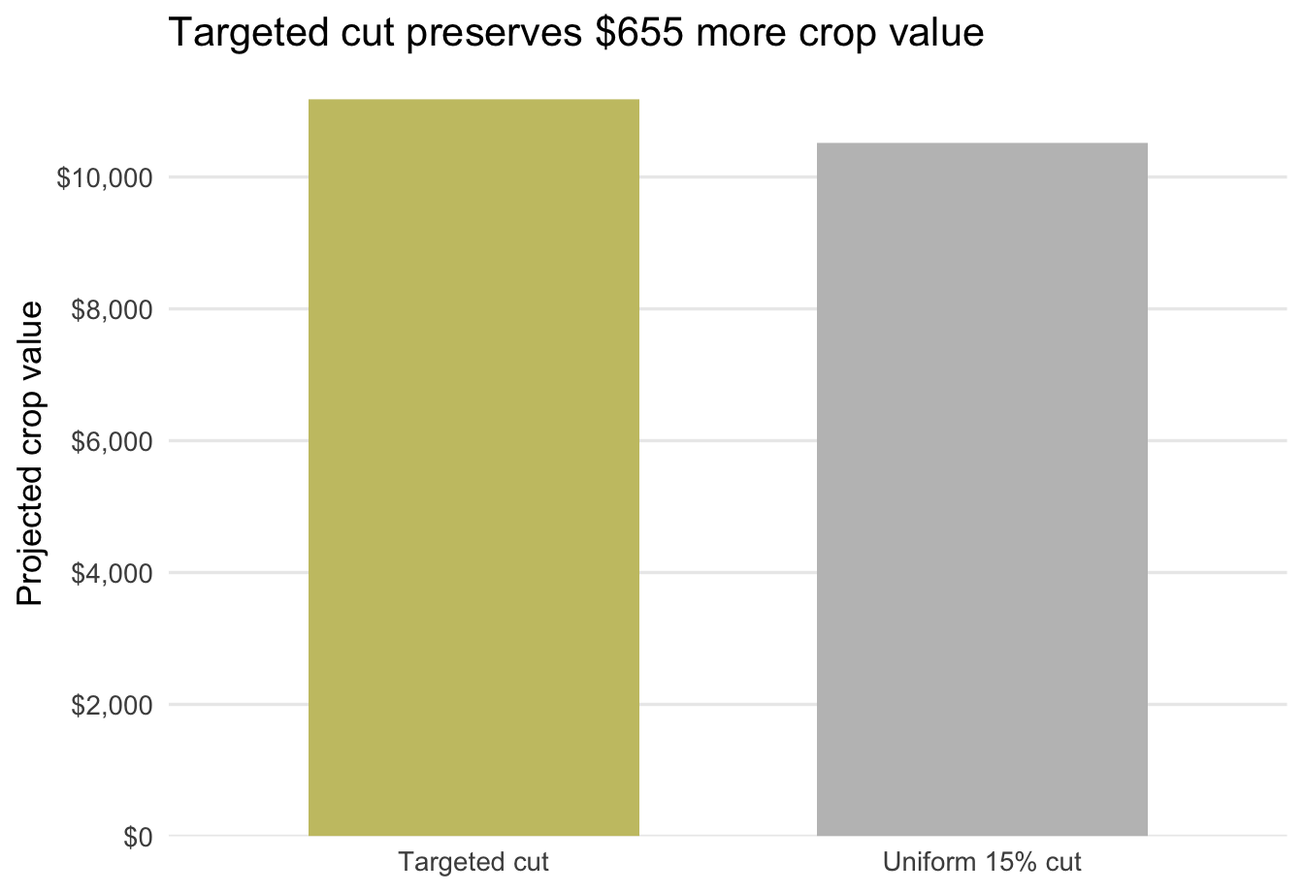
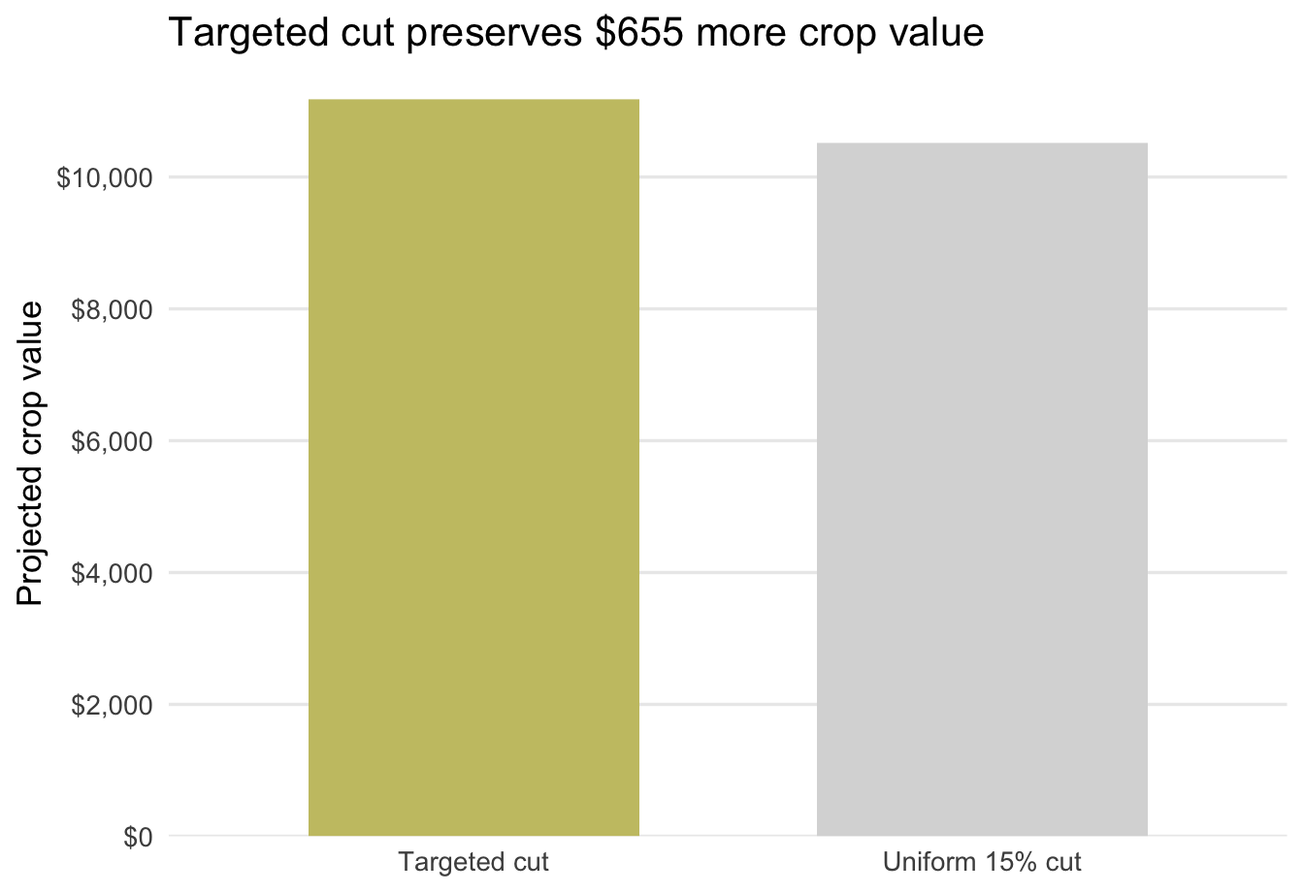
Refactor visualizations in lab.qmd: updated dollar label functions, adjusted color themes, and modified layout to horizontal for improved readability. Updated associated PNG files for visual consistency.

Changed region(s): [[0.625, 0.152, 0.9062, 0.9425]]

diff --git a/modules/14_refining/lab.html b/modules/14_refining/lab.html
@@ -101,7 +101,7 @@ pre > code.sourceCode > span > a:first-child::before { text-decoration: underlin
   <li><a href="#step-5-compare-before-and-after" id="toc-step-5-compare-before-and-after" class="nav-link" data-scroll-target="#step-5-compare-before-and-after">Step 5: Compare before and after</a></li>
   </ul></li>
   <li><a href="#deliverables" id="toc-deliverables" class="nav-link" data-scroll-target="#deliverables">Deliverables</a></li>
-  <li><a href="#appendix-analysis-based-visuals" id="toc-appendix-analysis-based-visuals" class="nav-link" data-scroll-target="#appendix-analysis-based-visuals">Appendix: Analysis-Based Visuals</a>
+  <li><a href="#appendix-additional-visuals" id="toc-appendix-additional-visuals" class="nav-link" data-scroll-target="#appendix-additional-visuals">Appendix: Additional Visuals</a>
   <ul class="collapse">
   <li><a href="#appendix-a-plot-regression-coefficients" id="toc-appendix-a-plot-regression-coefficients" class="nav-link" data-scroll-target="#appendix-a-plot-regression-coefficients">Appendix A: Plot Regression Coefficients</a></li>
   <li><a href="#appendix-b-plot-a-forecast" id="toc-appendix-b-plot-a-forecast" class="nav-link" data-scroll-target="#appendix-b-plot-a-forecast">Appendix B: Plot a Forecast</a></li>
@@ -174,70 +174,61 @@ pre > code.sourceCode > span > a:first-child::before { text-decoration: underlin
 <p>Use the code below to recreate that comparison.</p>
 <div class="cell">
 <div class="sourceCode cell-code" id="cb2"><pre class="sourceCode r code-with-copy"><code class="sourceCode r"><span id="cb2-1"><a href="#cb2-1" aria-hidden="true" tabindex="-1"></a><span class="fu">library</span>(tidyverse)</span>
-<span id="cb2-2"><a href="#cb2-2" aria-hidden="true" tabindex="-1"></a></span>
-<span id="cb2-3"><a href="#cb2-3" aria-hidden="true" tabindex="-1"></a>accent <span class="ot">&lt;-</span> <span class="st">"#C8C372"</span></span>
-<span id="cb2-4"><a href="#cb2-4" aria-hidden="true" tabindex="-1"></a>muted <span class="ot">&lt;-</span> <span class="st">"gray75"</span></span>
-<span id="cb2-5"><a href="#cb2-5" aria-hidden="true" tabindex="-1"></a></span>
-<span id="cb2-6"><a href="#cb2-6" aria-hidden="true" tabindex="-1"></a>refine_theme <span class="ot">&lt;-</span> <span class="fu">theme_minimal</span>(<span class="at">base_size =</span> <span class="dv">13</span>) <span class="sc">+</span></span>
-<span id="cb2-7"><a href="#cb2-7" aria-hidden="true" tabindex="-1"></a>  <span class="fu">theme</span>(</span>
-<span id="cb2-8"><a href="#cb2-8" aria-hidden="true" tabindex="-1"></a>    <span class="at">panel.grid.minor =</span> <span class="fu">element_blank</span>(),</span>
-<span id="cb2-9"><a href="#cb2-9" aria-hidden="true" tabindex="-1"></a>    <span class="at">plot.title.position =</span> <span class="st">"plot"</span>,</span>
-<span id="cb2-10"><a href="#cb2-10" aria-hidden="true" tabindex="-1"></a>    <span class="at">plot.background =</span> <span class="fu">element_rect</span>(<span class="at">fill =</span> <span class="st">"white"</span>, <span class="at">color =</span> <span class="cn">NA</span>),</span>
-<span id="cb2-11"><a href="#cb2-11" aria-hidden="true" tabindex="-1"></a>    <span class="at">panel.background =</span> <span class="fu">element_rect</span>(<span class="at">fill =</span> <span class="st">"white"</span>, <span class="at">color =</span> <span class="cn">NA</span>)</span>
-<span id="cb2-12"><a href="#cb2-12" aria-hidden="true" tabindex="-1"></a>  )</span>
-<span id="cb2-13"><a href="#cb2-13" aria-hidden="true" tabindex="-1"></a></span>
-<span id="cb2-14"><a href="#cb2-14" aria-hidden="true" tabindex="-1"></a><span class="co"># Reuse the same farm-level dataset from week 12</span></span>
-<span id="cb2-15"><a href="#cb2-15" aria-hidden="true" tabindex="-1"></a>allocation_dat <span class="ot">&lt;-</span> <span class="fu">read_csv</span>(<span class="st">"https://jbayham.github.io/arec-330/modules/12_choosing/includes/lab12_dat.csv"</span>, <span class="at">show_col_types =</span> <span class="cn">FALSE</span>)</span>
-<span id="cb2-16"><a href="#cb2-16" aria-hidden="true" tabindex="-1"></a></span>
-<span id="cb2-17"><a href="#cb2-17" aria-hidden="true" tabindex="-1"></a><span class="co"># Recreate the simple value measure from the week 12 scenario</span></span>
-<span id="cb2-18"><a href="#cb2-18" aria-hidden="true" tabindex="-1"></a>value_dat <span class="ot">&lt;-</span> allocation_dat <span class="sc">%&gt;%</span></span>
-<span id="cb2-19"><a href="#cb2-19" aria-hidden="true" tabindex="-1"></a>  <span class="fu">mutate</span>(</span>
-<span id="cb2-20"><a href="#cb2-20" aria-hidden="true" tabindex="-1"></a>    <span class="at">price_per_bu =</span> <span class="fu">case_when</span>(</span>
-<span id="cb2-21"><a href="#cb2-21" aria-hidden="true" tabindex="-1"></a>      crop <span class="sc">==</span> <span class="st">"corn"</span> <span class="sc">~</span> <span class="dv">5</span>,</span>
-<span id="cb2-22"><a href="#cb2-22" aria-hidden="true" tabindex="-1"></a>      crop <span class="sc">==</span> <span class="st">"soybeans"</span> <span class="sc">~</span> <span class="dv">6</span>,</span>
-<span id="cb2-23"><a href="#cb2-23" aria-hidden="true" tabindex="-1"></a>      crop <span class="sc">==</span> <span class="st">"alfalfa"</span> <span class="sc">~</span> <span class="dv">7</span></span>
-<span id="cb2-24"><a href="#cb2-24" aria-hidden="true" tabindex="-1"></a>    ),</span>
-<span id="cb2-25"><a href="#cb2-25" aria-hidden="true" tabindex="-1"></a>    <span class="at">value_per_acre =</span> yield_bu_acre <span class="sc">*</span> price_per_bu,</span>
-<span id="cb2-26"><a href="#cb2-26" aria-hidden="true" tabindex="-1"></a>    <span class="at">value_per_acft =</span> value_per_acre <span class="sc">/</span> seasonal_water_acft</span>
-<span id="cb2-27"><a href="#cb2-27" aria-hidden="true" tabindex="-1"></a>  )</span>
-<span id="cb2-28"><a href="#cb2-28" aria-hidden="true" tabindex="-1"></a></span>
-<span id="cb2-29"><a href="#cb2-29" aria-hidden="true" tabindex="-1"></a><span class="co"># The board must operate with 15% less total water</span></span>
-<span id="cb2-30"><a href="#cb2-30" aria-hidden="true" tabindex="-1"></a>water_budget <span class="ot">&lt;-</span> <span class="fu">sum</span>(value_dat<span class="sc">$</span>seasonal_water_acft) <span class="sc">*</span> <span class="fl">0.85</span></span>
-<span id="cb2-31"><a href="#cb2-31" aria-hidden="true" tabindex="-1"></a></span>
-<span id="cb2-32"><a href="#cb2-32" aria-hidden="true" tabindex="-1"></a><span class="co"># Targeted cut: preserve water first where value per acre-foot is higher</span></span>
-<span id="cb2-33"><a href="#cb2-33" aria-hidden="true" tabindex="-1"></a>targeted_plan <span class="ot">&lt;-</span> value_dat <span class="sc">%&gt;%</span></span>
-<span id="cb2-34"><a href="#cb2-34" aria-hidden="true" tabindex="-1"></a>  <span class="fu">arrange</span>(<span class="fu">desc</span>(value_per_acft)) <span class="sc">%&gt;%</span></span>
-<span id="cb2-35"><a href="#cb2-35" aria-hidden="true" tabindex="-1"></a>  <span class="fu">mutate</span>(</span>
-<span id="cb2-36"><a href="#cb2-36" aria-hidden="true" tabindex="-1"></a>    <span class="at">water_before =</span> <span class="fu">lag</span>(<span class="fu">cumsum</span>(seasonal_water_acft), <span class="at">default =</span> <span class="dv">0</span>),</span>
-<span id="cb2-37"><a href="#cb2-37" aria-hidden="true" tabindex="-1"></a>    <span class="at">water_kept =</span> <span class="fu">pmax</span>(<span class="dv">0</span>, <span class="fu">pmin</span>(seasonal_water_acft, water_budget <span class="sc">-</span> water_before)),</span>
-<span id="cb2-38"><a href="#cb2-38" aria-hidden="true" tabindex="-1"></a>    <span class="at">share_kept =</span> water_kept <span class="sc">/</span> seasonal_water_acft,</span>
-<span id="cb2-39"><a href="#cb2-39" aria-hidden="true" tabindex="-1"></a>    <span class="at">projected_value =</span> value_per_acre <span class="sc">*</span> share_kept</span>
-<span id="cb2-40"><a href="#cb2-40" aria-hidden="true" tabindex="-1"></a>  )</span>
-<span id="cb2-41"><a href="#cb2-41" aria-hidden="true" tabindex="-1"></a></span>
-<span id="cb2-42"><a href="#cb2-42" aria-hidden="true" tabindex="-1"></a><span class="co"># Compare the two policies</span></span>
-<span id="cb2-43"><a href="#cb2-43" aria-hidden="true" tabindex="-1"></a>policy_compare <span class="ot">&lt;-</span> <span class="fu">tibble</span>(</span>
-<span id="cb2-44"><a href="#cb2-44" aria-hidden="true" tabindex="-1"></a>  <span class="at">policy =</span> <span class="fu">c</span>(<span class="st">"Uniform 15% cut"</span>, <span class="st">"Targeted cut"</span>),</span>
-<span id="cb2-45"><a href="#cb2-45" aria-hidden="true" tabindex="-1"></a>  <span class="at">total_value =</span> <span class="fu">c</span>(</span>
-<span id="cb2-46"><a href="#cb2-46" aria-hidden="true" tabindex="-1"></a>    <span class="fu">sum</span>(value_dat<span class="sc">$</span>value_per_acre <span class="sc">*</span> <span class="fl">0.85</span>),</span>
-<span id="cb2-47"><a href="#cb2-47" aria-hidden="true" tabindex="-1"></a>    <span class="fu">sum</span>(targeted_plan<span class="sc">$</span>projected_value)</span>
-<span id="cb2-48"><a href="#cb2-48" aria-hidden="true" tabindex="-1"></a>  )</span>
-<span id="cb2-49"><a href="#cb2-49" aria-hidden="true" tabindex="-1"></a>) <span class="sc">%&gt;%</span></span>
-<span id="cb2-50"><a href="#cb2-50" aria-hidden="true" tabindex="-1"></a>  <span class="fu">mutate</span>(</span>
-<span id="cb2-51"><a href="#cb2-51" aria-hidden="true" tabindex="-1"></a>    <span class="at">policy_long =</span> <span class="fu">c</span>(</span>
-<span id="cb2-52"><a href="#cb2-52" aria-hidden="true" tabindex="-1"></a>      <span class="st">"Uniform 15% cut to all farms"</span>,</span>
-<span id="cb2-53"><a href="#cb2-53" aria-hidden="true" tabindex="-1"></a>      <span class="st">"Targeted cut based on value per acre-foot"</span></span>
-<span id="cb2-54"><a href="#cb2-54" aria-hidden="true" tabindex="-1"></a>    ),</span>
-<span id="cb2-55"><a href="#cb2-55" aria-hidden="true" tabindex="-1"></a>    <span class="at">policy_short =</span> <span class="fu">factor</span>(</span>
-<span id="cb2-56"><a href="#cb2-56" aria-hidden="true" tabindex="-1"></a>      <span class="fu">c</span>(<span class="st">"Uniform cut"</span>, <span class="st">"Targeted cut"</span>),</span>
-<span id="cb2-57"><a href="#cb2-57" aria-hidden="true" tabindex="-1"></a>      <span class="at">levels =</span> <span class="fu">c</span>(<span class="st">"Uniform cut"</span>, <span class="st">"Targeted cut"</span>)</span>
-<span id="cb2-58"><a href="#cb2-58" aria-hidden="true" tabindex="-1"></a>    ),</span>
-<span id="cb2-59"><a href="#cb2-59" aria-hidden="true" tabindex="-1"></a>    <span class="at">emphasis =</span> <span class="fu">c</span>(<span class="st">"Background"</span>, <span class="st">"Highlight"</span>),</span>
-<span id="cb2-60"><a href="#cb2-60" aria-hidden="true" tabindex="-1"></a>    <span class="at">label =</span> scales<span class="sc">::</span><span class="fu">dollar</span>(total_value, <span class="at">accuracy =</span> <span class="dv">1</span>)</span>
-<span id="cb2-61"><a href="#cb2-61" aria-hidden="true" tabindex="-1"></a>  )</span>
-<span id="cb2-62"><a href="#cb2-62" aria-hidden="true" tabindex="-1"></a></span>
-<span id="cb2-63"><a href="#cb2-63" aria-hidden="true" tabindex="-1"></a>value_gap <span class="ot">&lt;-</span> policy_compare<span class="sc">$</span>total_value[<span class="dv">2</span>] <span class="sc">-</span> policy_compare<span class="sc">$</span>total_value[<span class="dv">1</span>]</span>
-<span id="cb2-64"><a href="#cb2-64" aria-hidden="true" tabindex="-1"></a></span>
-<span id="cb2-65"><a href="#cb2-65" aria-hidden="true" tabindex="-1"></a>policy_compare</span></code><button title="Copy to Clipboard" class="code-copy-button"><i class="bi"></i></button></pre></div>
+<span id="cb2-2"><a href="#cb2-2" aria-hidden="true" tabindex="-1"></a><span class="fu">library</span>(scales)</span>
+<span id="cb2-3"><a href="#cb2-3" aria-hidden="true" tabindex="-1"></a></span>
+<span id="cb2-4"><a href="#cb2-4" aria-hidden="true" tabindex="-1"></a></span>
+<span id="cb2-5"><a href="#cb2-5" aria-hidden="true" tabindex="-1"></a><span class="co"># Reuse the same farm-level dataset from week 12</span></span>
+<span id="cb2-6"><a href="#cb2-6" aria-hidden="true" tabindex="-1"></a>allocation_dat <span class="ot">&lt;-</span> <span class="fu">read_csv</span>(<span class="st">"https://jbayham.github.io/arec-330/modules/12_choosing/includes/lab12_dat.csv"</span>, <span class="at">show_col_types =</span> <span class="cn">FALSE</span>)</span>
+<span id="cb2-7"><a href="#cb2-7" aria-hidden="true" tabindex="-1"></a></span>
+<span id="cb2-8"><a href="#cb2-8" aria-hidden="true" tabindex="-1"></a><span class="co"># Recreate the simple value measure from the week 12 scenario</span></span>
+<span id="cb2-9"><a href="#cb2-9" aria-hidden="true" tabindex="-1"></a>value_dat <span class="ot">&lt;-</span> allocation_dat <span class="sc">%&gt;%</span></span>
+<span id="cb2-10"><a href="#cb2-10" aria-hidden="true" tabindex="-1"></a>  <span class="fu">mutate</span>(</span>
+<span id="cb2-11"><a href="#cb2-11" aria-hidden="true" tabindex="-1"></a>    <span class="at">price_per_bu =</span> <span class="fu">case_when</span>(</span>
+<span id="cb2-12"><a href="#cb2-12" aria-hidden="true" tabindex="-1"></a>      crop <span class="sc">==</span> <span class="st">"corn"</span> <span class="sc">~</span> <span class="dv">5</span>,</span>
+<span id="cb2-13"><a href="#cb2-13" aria-hidden="true" tabindex="-1"></a>      crop <span class="sc">==</span> <span class="st">"soybeans"</span> <span class="sc">~</span> <span class="dv">6</span>,</span>
+<span id="cb2-14"><a href="#cb2-14" aria-hidden="true" tabindex="-1"></a>      crop <span class="sc">==</span> <span class="st">"alfalfa"</span> <span class="sc">~</span> <span class="dv">7</span></span>
+<span id="cb2-15"><a href="#cb2-15" aria-hidden="true" tabindex="-1"></a>    ),</span>
+<span id="cb2-16"><a href="#cb2-16" aria-hidden="true" tabindex="-1"></a>    <span class="at">value_per_acre =</span> yield_bu_acre <span class="sc">*</span> price_per_bu,</span>
+<span id="cb2-17"><a href="#cb2-17" aria-hidden="true" tabindex="-1"></a>    <span class="at">value_per_acft =</span> value_per_acre <span class="sc">/</span> seasonal_water_acft</span>
+<span id="cb2-18"><a href="#cb2-18" aria-hidden="true" tabindex="-1"></a>  )</span>
+<span id="cb2-19"><a href="#cb2-19" aria-hidden="true" tabindex="-1"></a></span>
+<span id="cb2-20"><a href="#cb2-20" aria-hidden="true" tabindex="-1"></a><span class="co"># The board must operate with 15% less total water</span></span>
+<span id="cb2-21"><a href="#cb2-21" aria-hidden="true" tabindex="-1"></a>water_budget <span class="ot">&lt;-</span> <span class="fu">sum</span>(value_dat<span class="sc">$</span>seasonal_water_acft) <span class="sc">*</span> <span class="fl">0.85</span></span>
+<span id="cb2-22"><a href="#cb2-22" aria-hidden="true" tabindex="-1"></a></span>
+<span id="cb2-23"><a href="#cb2-23" aria-hidden="true" tabindex="-1"></a><span class="co"># Targeted cut: preserve water first where value per acre-foot is higher</span></span>
+<span id="cb2-24"><a href="#cb2-24" aria-hidden="true" tabindex="-1"></a>targeted_plan <span class="ot">&lt;-</span> value_dat <span class="sc">%&gt;%</span></span>
+<span id="cb2-25"><a href="#cb2-25" aria-hidden="true" tabindex="-1"></a>  <span class="fu">arrange</span>(<span class="fu">desc</span>(value_per_acft)) <span class="sc">%&gt;%</span></span>
+<span id="cb2-26"><a href="#cb2-26" aria-hidden="true" tabindex="-1"></a>  <span class="fu">mutate</span>(</span>
+<span id="cb2-27"><a href="#cb2-27" aria-hidden="true" tabindex="-1"></a>    <span class="at">water_before =</span> <span class="fu">lag</span>(<span class="fu">cumsum</span>(seasonal_water_acft), <span class="at">default =</span> <span class="dv">0</span>),</span>
+<span id="cb2-28"><a href="#cb2-28" aria-hidden="true" tabindex="-1"></a>    <span class="at">water_kept =</span> <span class="fu">pmax</span>(<span class="dv">0</span>, <span class="fu">pmin</span>(seasonal_water_acft, water_budget <span class="sc">-</span> water_before)),</span>
+<span id="cb2-29"><a href="#cb2-29" aria-hidden="true" tabindex="-1"></a>    <span class="at">share_kept =</span> water_kept <span class="sc">/</span> seasonal_water_acft,</span>
+<span id="cb2-30"><a href="#cb2-30" aria-hidden="true" tabindex="-1"></a>    <span class="at">projected_value =</span> value_per_acre <span class="sc">*</span> share_kept</span>
+<span id="cb2-31"><a href="#cb2-31" aria-hidden="true" tabindex="-1"></a>  )</span>
+<span id="cb2-32"><a href="#cb2-32" aria-hidden="true" tabindex="-1"></a></span>
+<span id="cb2-33"><a href="#cb2-33" aria-hidden="true" tabindex="-1"></a><span class="co"># Compare the two policies</span></span>
+<span id="cb2-34"><a href="#cb2-34" aria-hidden="true" tabindex="-1"></a>policy_compare <span class="ot">&lt;-</span> <span class="fu">tibble</span>(</span>
+<span id="cb2-35"><a href="#cb2-35" aria-hidden="true" tabindex="-1"></a>  <span class="at">policy =</span> <span class="fu">c</span>(<span class="st">"Uniform 15% cut"</span>, <span class="st">"Targeted cut"</span>),</span>
+<span id="cb2-36"><a href="#cb2-36" aria-hidden="true" tabindex="-1"></a>  <span class="at">total_value =</span> <span class="fu">c</span>(</span>
+<span id="cb2-37"><a href="#cb2-37" aria-hidden="true" tabindex="-1"></a>    <span class="fu">sum</span>(value_dat<span class="sc">$</span>value_per_acre <span class="sc">*</span> <span class="fl">0.85</span>),</span>
+<span id="cb2-38"><a href="#cb2-38" aria-hidden="true" tabindex="-1"></a>    <span class="fu">sum</span>(targeted_plan<span class="sc">$</span>projected_value)</span>
+<span id="cb2-39"><a href="#cb2-39" aria-hidden="true" tabindex="-1"></a>  )</span>
+<span id="cb2-40"><a href="#cb2-40" aria-hidden="true" tabindex="-1"></a>) <span class="sc">%&gt;%</span></span>
+<span id="cb2-41"><a href="#cb2-41" aria-hidden="true" tabindex="-1"></a>  <span class="fu">mutate</span>(</span>
+<span id="cb2-42"><a href="#cb2-42" aria-hidden="true" tabindex="-1"></a>    <span class="at">policy_long =</span> <span class="fu">c</span>(</span>
+<span id="cb2-43"><a href="#cb2-43" aria-hidden="true" tabindex="-1"></a>      <span class="st">"Uniform 15% cut to all farms"</span>,</span>
+<span id="cb2-44"><a href="#cb2-44" aria-hidden="true" tabindex="-1"></a>      <span class="st">"Targeted cut based on value per acre-foot"</span></span>
+<span id="cb2-45"><a href="#cb2-45" aria-hidden="true" tabindex="-1"></a>    ),</span>
+<span id="cb2-46"><a href="#cb2-46" aria-hidden="true" tabindex="-1"></a>    <span class="at">policy_short =</span> <span class="fu">factor</span>(</span>
+<span id="cb2-47"><a href="#cb2-47" aria-hidden="true" tabindex="-1"></a>      <span class="fu">c</span>(<span class="st">"Uniform cut"</span>, <span class="st">"Targeted cut"</span>),</span>
+<span id="cb2-48"><a href="#cb2-48" aria-hidden="true" tabindex="-1"></a>      <span class="at">levels =</span> <span class="fu">c</span>(<span class="st">"Uniform cut"</span>, <span class="st">"Targeted cut"</span>)</span>
+<span id="cb2-49"><a href="#cb2-49" aria-hidden="true" tabindex="-1"></a>    ),</span>
+<span id="cb2-50"><a href="#cb2-50" aria-hidden="true" tabindex="-1"></a>    <span class="at">emphasis =</span> <span class="fu">c</span>(<span class="st">"Background"</span>, <span class="st">"Highlight"</span>),</span>
+<span id="cb2-51"><a href="#cb2-51" aria-hidden="true" tabindex="-1"></a>    <span class="at">label =</span> <span class="fu">dollar</span>(total_value, <span class="at">accuracy =</span> <span class="dv">1</span>)</span>
+<span id="cb2-52"><a href="#cb2-52" aria-hidden="true" tabindex="-1"></a>  )</span>
+<span id="cb2-53"><a href="#cb2-53" aria-hidden="true" tabindex="-1"></a></span>
+<span id="cb2-54"><a href="#cb2-54" aria-hidden="true" tabindex="-1"></a>value_gap <span class="ot">&lt;-</span> policy_compare<span class="sc">$</span>total_value[<span class="dv">2</span>] <span class="sc">-</span> policy_compare<span class="sc">$</span>total_value[<span class="dv">1</span>]</span>
+<span id="cb2-55"><a href="#cb2-55" aria-hidden="true" tabindex="-1"></a></span>
+<span id="cb2-56"><a href="#cb2-56" aria-hidden="true" tabindex="-1"></a>policy_compare</span></code><button title="Copy to Clipboard" class="code-copy-button"><i class="bi"></i></button></pre></div>
 <div class="cell-output cell-output-stdout">
 <pre><code># A tibble: 2 × 6
   policy          total_value policy_long            policy_short emphasis label
@@ -320,7 +311,7 @@ Note
 <span id="cb7-2"><a href="#cb7-2" aria-hidden="true" tabindex="-1"></a>  <span class="fu">geom_col</span>() <span class="sc">+</span></span>
 <span id="cb7-3"><a href="#cb7-3" aria-hidden="true" tabindex="-1"></a>  <span class="fu">scale_y_continuous</span>(</span>
 <span id="cb7-4"><a href="#cb7-4" aria-hidden="true" tabindex="-1"></a>    <span class="at">breaks =</span> <span class="fu">seq</span>(<span class="dv">0</span>, <span class="dv">12000</span>, <span class="dv">2000</span>),</span>
-<span id="cb7-5"><a href="#cb7-5" aria-hidden="true" tabindex="-1"></a>    <span class="at">labels =</span> scales<span class="sc">::</span><span class="fu">label_dollar</span>(),</span>
+<span id="cb7-5"><a href="#cb7-5" aria-hidden="true" tabindex="-1"></a>    <span class="at">labels =</span> <span class="fu">label_dollar</span>(),</span>
 <span id="cb7-6"><a href="#cb7-6" aria-hidden="true" tabindex="-1"></a>    <span class="at">expand =</span> <span class="fu">expansion</span>(<span class="at">mult =</span> <span class="fu">c</span>(<span class="dv">0</span>, <span class="fl">0.04</span>))</span>
 <span id="cb7-7"><a href="#cb7-7" aria-hidden="true" tabindex="-1"></a>  ) <span class="sc">+</span></span>
 <span id="cb7-8"><a href="#cb7-8" aria-hidden="true" tabindex="-1"></a>  <span class="fu">labs</span>(</span>
@@ -347,7 +338,7 @@ Note
 <span id="cb8-2"><a href="#cb8-2" aria-hidden="true" tabindex="-1"></a>  <span class="fu">geom_col</span>(<span class="at">width =</span> <span class="fl">0.65</span>, <span class="at">show.legend =</span> <span class="cn">FALSE</span>) <span class="sc">+</span></span>
 <span id="cb8-3"><a href="#cb8-3" aria-hidden="true" tabindex="-1"></a>  <span class="fu">scale_y_continuous</span>(</span>
 <span id="cb8-4"><a href="#cb8-4" aria-hidden="true" tabindex="-1"></a>    <span class="at">breaks =</span> <span class="fu">seq</span>(<span class="dv">0</span>, <span class="dv">12000</span>, <span class="dv">2000</span>),</span>
-<span id="cb8-5"><a href="#cb8-5" aria-hidden="true" tabindex="-1"></a>    <span class="at">labels =</span> scales<span class="sc">::</span><span class="fu">label_dollar</span>(),</span>
+<span id="cb8-5"><a href="#cb8-5" aria-hidden="true" tabindex="-1"></a>    <span class="at">labels =</span> <span class="fu">label_dollar</span>(),</span>
 <span id="cb8-6"><a href="#cb8-6" aria-hidden="true" tabindex="-1"></a>    <span class="at">expand =</span> <span class="fu">expansion</span>(<span class="at">mult =</span> <span class="fu">c</span>(<span class="dv">0</span>, <span class="fl">0.04</span>))</span>
 <span id="cb8-7"><a href="#cb8-7" aria-hidden="true" tabindex="-1"></a>  ) <span class="sc">+</span></span>
 <span id="cb8-8"><a href="#cb8-8" aria-hidden="true" tabindex="-1"></a>  <span class="fu">labs</span>(</span>
@@ -370,24 +361,28 @@ Note
 <section id="step-5-use-color-or-emphasis-to-direct-attention" class="level3">
 <h3 class="anchored" data-anchor-id="step-5-use-color-or-emphasis-to-direct-attention">Step 5: Use color or emphasis to direct attention</h3>
 <div class="cell">
-<div class="sourceCode cell-code" id="cb9"><pre class="sourceCode r code-with-copy"><code class="sourceCode r"><span id="cb9-1"><a href="#cb9-1" aria-hidden="true" tabindex="-1"></a><span class="fu">ggplot</span>(policy_compare, <span class="fu">aes</span>(<span class="at">x =</span> policy, <span class="at">y =</span> total_value, <span class="at">fill =</span> emphasis)) <span class="sc">+</span></span>
-<span id="cb9-2"><a href="#cb9-2" aria-hidden="true" tabindex="-1"></a>  <span class="fu">geom_col</span>(<span class="at">width =</span> <span class="fl">0.65</span>, <span class="at">color =</span> <span class="cn">NA</span>, <span class="at">show.legend =</span> <span class="cn">FALSE</span>) <span class="sc">+</span></span>
-<span id="cb9-3"><a href="#cb9-3" aria-hidden="true" tabindex="-1"></a>  <span class="fu">scale_fill_manual</span>(<span class="at">values =</span> <span class="fu">c</span>(<span class="st">"Background"</span> <span class="ot">=</span> muted, <span class="st">"Highlight"</span> <span class="ot">=</span> accent)) <span class="sc">+</span></span>
-<span id="cb9-4"><a href="#cb9-4" aria-hidden="true" tabindex="-1"></a>  <span class="fu">scale_y_continuous</span>(</span>
-<span id="cb9-5"><a href="#cb9-5" aria-hidden="true" tabindex="-1"></a>    <span class="at">breaks =</span> <span class="fu">seq</span>(<span class="dv">0</span>, <span class="dv">12000</span>, <span class="dv">2000</span>),</span>
-<span id="cb9-6"><a href="#cb9-6" aria-hidden="true" tabindex="-1"></a>    <span class="at">labels =</span> scales<span class="sc">::</span><span class="fu">label_dollar</span>(),</span>
-<span id="cb9-7"><a href="#cb9-7" aria-hidden="true" tabindex="-1"></a>    <span class="at">expand =</span> <span class="fu">expansion</span>(<span class="at">mult =</span> <span class="fu">c</span>(<span class="dv">0</span>, <span class="fl">0.04</span>))</span>
-<span id="cb9-8"><a href="#cb9-8" aria-hidden="true" tabindex="-1"></a>  ) <span class="sc">+</span></span>
-<span id="cb9-9"><a href="#cb9-9" aria-hidden="true" tabindex="-1"></a>  <span class="fu">labs</span>(</span>
-<span id="cb9-10"><a href="#cb9-10" aria-hidden="true" tabindex="-1"></a>    <span class="at">title =</span> <span class="st">"Targeted cut preserves $655 more crop value"</span>,</span>
-<span id="cb9-11"><a href="#cb9-11" aria-hidden="true" tabindex="-1"></a>    <span class="at">x =</span> <span class="cn">NULL</span>,</span>
-<span id="cb9-12"><a href="#cb9-12" aria-hidden="true" tabindex="-1"></a>    <span class="at">y =</span> <span class="st">"Projected crop value"</span></span>
-<span id="cb9-13"><a href="#cb9-13" aria-hidden="true" tabindex="-1"></a>  ) <span class="sc">+</span></span>
-<span id="cb9-14"><a href="#cb9-14" aria-hidden="true" tabindex="-1"></a>  <span class="fu">theme_minimal</span>(<span class="at">base_size =</span> <span class="dv">13</span>) <span class="sc">+</span></span>
-<span id="cb9-15"><a href="#cb9-15" aria-hidden="true" tabindex="-1"></a>  <span class="fu">theme</span>(</span>
-<span id="cb9-16"><a href="#cb9-16" aria-hidden="true" tabindex="-1"></a>    <span class="at">panel.grid.major.x =</span> <span class="fu">element_blank</span>(),</span>
-<span id="cb9-17"><a href="#cb9-17" aria-hidden="true" tabindex="-1"></a>    <span class="at">panel.grid.minor =</span> <span class="fu">element_blank</span>()</span>
-<span id="cb9-18"><a href="#cb9-18" aria-hidden="true" tabindex="-1"></a>  )</span></code><button title="Copy to Clipboard" class="code-copy-button"><i class="bi"></i></button></pre></div>
+<div class="sourceCode cell-code" id="cb9"><pre class="sourceCode r code-with-copy"><code class="sourceCode r"><span id="cb9-1"><a href="#cb9-1" aria-hidden="true" tabindex="-1"></a>accent <span class="ot">&lt;-</span> <span class="st">"#C8C372"</span></span>
+<span id="cb9-2"><a href="#cb9-2" aria-hidden="true" tabindex="-1"></a>muted <span class="ot">&lt;-</span> <span class="st">"gray85"</span></span>
+<span id="cb9-3"><a href="#cb9-3" aria-hidden="true" tabindex="-1"></a></span>
+<span id="cb9-4"><a href="#cb9-4" aria-hidden="true" tabindex="-1"></a></span>
+<span id="cb9-5"><a href="#cb9-5" aria-hidden="true" tabindex="-1"></a><span class="fu">ggplot</span>(policy_compare, <span class="fu">aes</span>(<span class="at">x =</span> policy, <span class="at">y =</span> total_value, <span class="at">fill =</span> emphasis)) <span class="sc">+</span></span>
+<span id="cb9-6"><a href="#cb9-6" aria-hidden="true" tabindex="-1"></a>  <span class="fu">geom_col</span>(<span class="at">width =</span> <span class="fl">0.65</span>, <span class="at">color =</span> <span class="cn">NA</span>, <span class="at">show.legend =</span> <span class="cn">FALSE</span>) <span class="sc">+</span></span>
+<span id="cb9-7"><a href="#cb9-7" aria-hidden="true" tabindex="-1"></a>  <span class="fu">scale_fill_manual</span>(<span class="at">values =</span> <span class="fu">c</span>(<span class="st">"Background"</span> <span class="ot">=</span> muted, <span class="st">"Highlight"</span> <span class="ot">=</span> accent)) <span class="sc">+</span></span>
+<span id="cb9-8"><a href="#cb9-8" aria-hidden="true" tabindex="-1"></a>  <span class="fu">scale_y_continuous</span>(</span>
+<span id="cb9-9"><a href="#cb9-9" aria-hidden="true" tabindex="-1"></a>    <span class="at">breaks =</span> <span class="fu">seq</span>(<span class="dv">0</span>, <span class="dv">12000</span>, <span class="dv">2000</span>),</span>
+<span id="cb9-10"><a href="#cb9-10" aria-hidden="true" tabindex="-1"></a>    <span class="at">labels =</span> <span class="fu">label_dollar</span>(),</span>
+<span id="cb9-11"><a href="#cb9-11" aria-hidden="true" tabindex="-1"></a>    <span class="at">expand =</span> <span class="fu">expansion</span>(<span class="at">mult =</span> <span class="fu">c</span>(<span class="dv">0</span>, <span class="fl">0.04</span>))</span>
+<span id="cb9-12"><a href="#cb9-12" aria-hidden="true" tabindex="-1"></a>  ) <span class="sc">+</span></span>
+<span id="cb9-13"><a href="#cb9-13" aria-hidden="true" tabindex="-1"></a>  <span class="fu">labs</span>(</span>
+<span id="cb9-14"><a href="#cb9-14" aria-hidden="true" tabindex="-1"></a>    <span class="at">title =</span> <span class="st">"Targeted cut preserves $655 more crop value"</span>,</span>
+<span id="cb9-15"><a href="#cb9-15" aria-hidden="true" tabindex="-1"></a>    <span class="at">x =</span> <span class="cn">NULL</span>,</span>
+<span id="cb9-16"><a href="#cb9-16" aria-hidden="true" tabindex="-1"></a>    <span class="at">y =</span> <span class="st">"Projected crop value"</span></span>
+<span id="cb9-17"><a href="#cb9-17" aria-hidden="true" tabindex="-1"></a>  ) <span class="sc">+</span></span>
+<span id="cb9-18"><a href="#cb9-18" aria-hidden="true" tabindex="-1"></a>  <span class="fu">theme_minimal</span>(<span class="at">base_size =</span> <span class="dv">13</span>) <span class="sc">+</span></span>
+<span id="cb9-19"><a href="#cb9-19" aria-hidden="true" tabindex="-1"></a>  <span class="fu">theme</span>(</span>
+<span id="cb9-20"><a href="#cb9-20" aria-hidden="true" tabindex="-1"></a>    <span class="at">panel.grid.major.x =</span> <span class="fu">element_blank</span>(),</span>
+<span id="cb9-21"><a href="#cb9-21" aria-hidden="true" tabindex="-1"></a>    <span class="at">panel.grid.minor =</span> <span class="fu">element_blank</span>()</span>
+<span id="cb9-22"><a href="#cb9-22" aria-hidden="true" tabindex="-1"></a>  )</span></code><button title="Copy to Clipboard" class="code-copy-button"><i class="bi"></i></button></pre></div>
 <div class="cell-output-display">
 <p><img src="lab_files/figure-html/unnamed-chunk-8-1.png" class="img-fluid" width="672"></p>
 </div>
@@ -405,7 +400,7 @@ Note
 <span id="cb10-5"><a href="#cb10-5" aria-hidden="true" tabindex="-1"></a>  <span class="fu">scale_fill_manual</span>(<span class="at">values =</span> <span class="fu">c</span>(<span class="st">"Background"</span> <span class="ot">=</span> muted, <span class="st">"Highlight"</span> <span class="ot">=</span> accent)) <span class="sc">+</span></span>
 <span id="cb10-6"><a href="#cb10-6" aria-hidden="true" tabindex="-1"></a>  <span class="fu">scale_y_continuous</span>(</span>
 <span id="cb10-7"><a href="#cb10-7" aria-hidden="true" tabindex="-1"></a>    <span class="at">breaks =</span> <span class="fu">seq</span>(<span class="dv">0</span>, <span class="dv">12000</span>, <span class="dv">2000</span>),</span>
-<span id="cb10-8"><a href="#cb10-8" aria-hidden="true" tabindex="-1"></a>    <span class="at">labels =</span> scales<span class="sc">::</span><span class="fu">label_dollar</span>(),</span>
+<span id="cb10-8"><a href="#cb10-8" aria-hidden="true" tabindex="-1"></a>    <span class="at">labels =</span> <span class="fu">label_dollar</span>(),</span>
 <span id="cb10-9"><a href="#cb10-9" aria-hidden="true" tabindex="-1"></a>    <span class="at">expand =</span> <span class="fu">expansion</span>(<span class="at">mult =</span> <span class="fu">c</span>(<span class="dv">0</span>, <span class="fl">0.04</span>))</span>
 <span id="cb10-10"><a href="#cb10-10" aria-hidden="true" tabindex="-1"></a>  ) <span class="sc">+</span></span>
 <span id="cb10-11"><a href="#cb10-11" aria-hidden="true" tabindex="-1"></a>  <span class="fu">labs</span>(</span>
@@ -417,13 +412,12 @@ Note
 <span id="cb10-17"><a href="#cb10-17" aria-hidden="true" tabindex="-1"></a>  <span class="fu">theme</span>(</span>
 <span id="cb10-18"><a href="#cb10-18" aria-hidden="true" tabindex="-1"></a>    <span class="at">panel.grid.major.y =</span> <span class="fu">element_blank</span>(),</span>
 <span id="cb10-19"><a href="#cb10-19" aria-hidden="true" tabindex="-1"></a>    <span class="at">panel.grid.minor =</span> <span class="fu">element_blank</span>(),</span>
-<span id="cb10-20"><a href="#cb10-20" aria-hidden="true" tabindex="-1"></a>    <span class="at">plot.margin =</span> <span class="fu">margin</span>(<span class="dv">10</span>, <span class="dv">18</span>, <span class="dv">10</span>, <span class="dv">10</span>)</span>
-<span id="cb10-21"><a href="#cb10-21" aria-hidden="true" tabindex="-1"></a>  )</span></code><button title="Copy to Clipboard" class="code-copy-button"><i class="bi"></i></button></pre></div>
+<span id="cb10-20"><a href="#cb10-20" aria-hidden="true" tabindex="-1"></a>  )</span></code><button title="Copy to Clipboard" class="code-copy-button"><i class="bi"></i></button></pre></div>
 <div class="cell-output-display">
 <p><img src="lab_files/figure-html/unnamed-chunk-9-1.png" class="img-fluid" width="691"></p>
 </div>
 </div>
-<p><strong>What changed:</strong> I added direct labels and a horizontal layout so the audience can read the comparison with less eye movement. The less important bar stays in the background.</p>
+<p><strong>What changed:</strong> I made the layout horizontal so the audience can read the comparison with less eye movement. The less important bar stays in the background.</p>
 <p><strong>Why it helps:</strong> The final chart makes the intended takeaway obvious and reduces unnecessary eye movement.</p>
 <div class="callout-attention">
 <p><strong>Question 1:</strong> After looking across Steps 0-6, which two refinement moves made the biggest difference? Explain in 2-3 sentences what changed and why the final version is easier to read.</p>
@@ -494,8 +488,8 @@ Note
 </ol>
 <hr>
 </section>
-<section id="appendix-analysis-based-visuals" class="level2">
-<h2 class="anchored" data-anchor-id="appendix-analysis-based-visuals">Appendix: Analysis-Based Visuals</h2>
+<section id="appendix-additional-visuals" class="level2">
+<h2 class="anchored" data-anchor-id="appendix-additional-visuals">Appendix: Additional Visuals</h2>
 <p>The project for this course requires some analysis using either regression or forecasting. The two examples below show how to build visuals for those analyses and then refine them like any other chart. Both examples use simulated data so you can see the full workflow end to end.</p>
 <section id="appendix-a-plot-regression-coefficients" class="level3">
 <h3 class="anchored" data-anchor-id="appendix-a-plot-regression-coefficients">Appendix A: Plot Regression Coefficients</h3>
